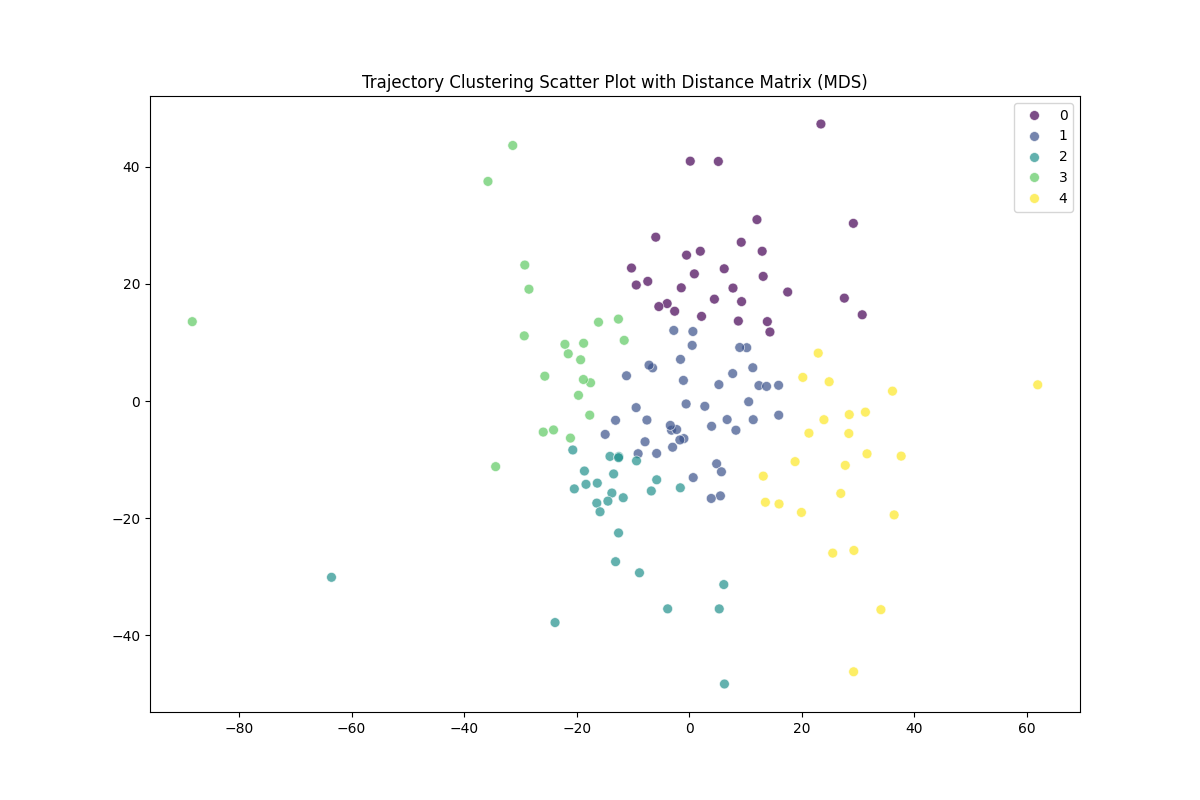
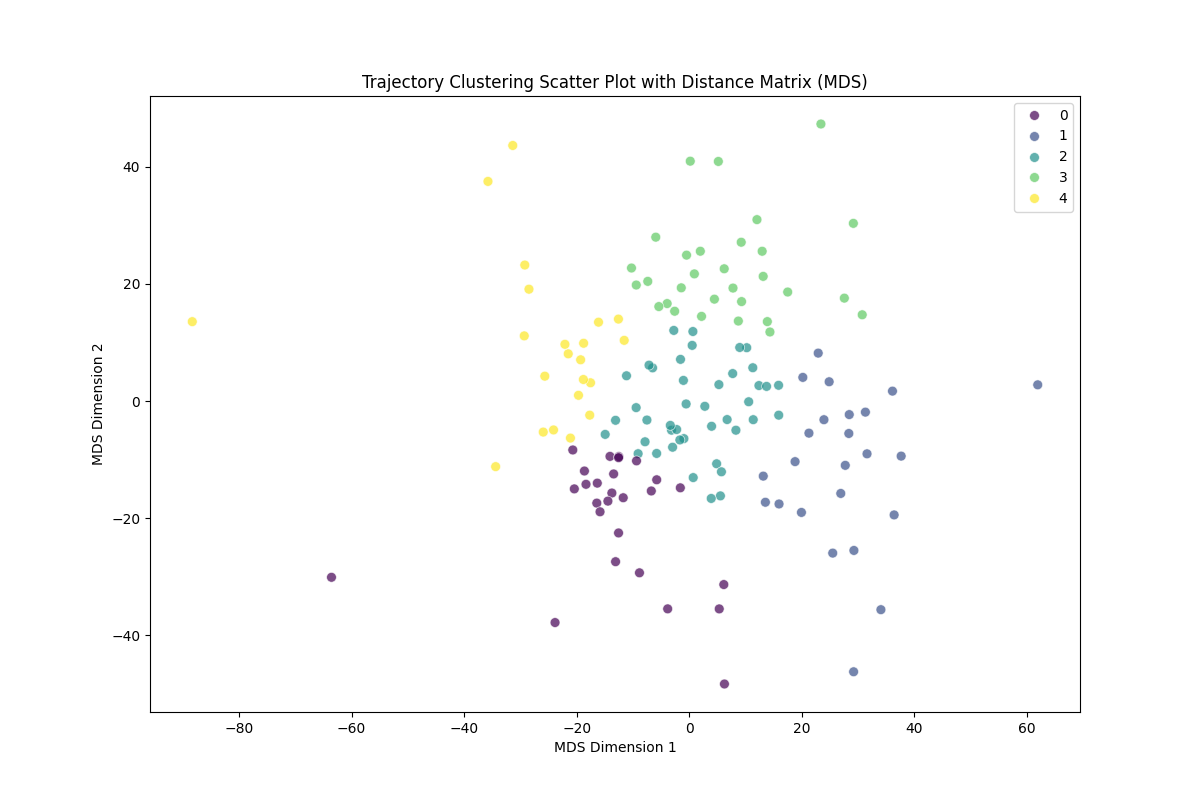
problem 2 fix bug

diff --git a/2_tra_cluster/utils/processing_beijing.py b/2_tra_cluster/utils/processing_beijing.py
@@ -207,6 +207,8 @@ def plot_similarity_matrix_heatmap(trajs, simi_matrix, clusters, num_trajectorie
                     hue=clusters, palette="viridis", s=50, alpha=0.7)
     # 设置图形属性
     plt.title('Trajectory Clustering Scatter Plot with Distance Matrix (MDS)')
+    plt.xlabel('MDS Dimension 1')
+    plt.ylabel('MDS Dimension 2')
     plt.savefig(f'cluster_scatter.png')
     plt.close()
 
